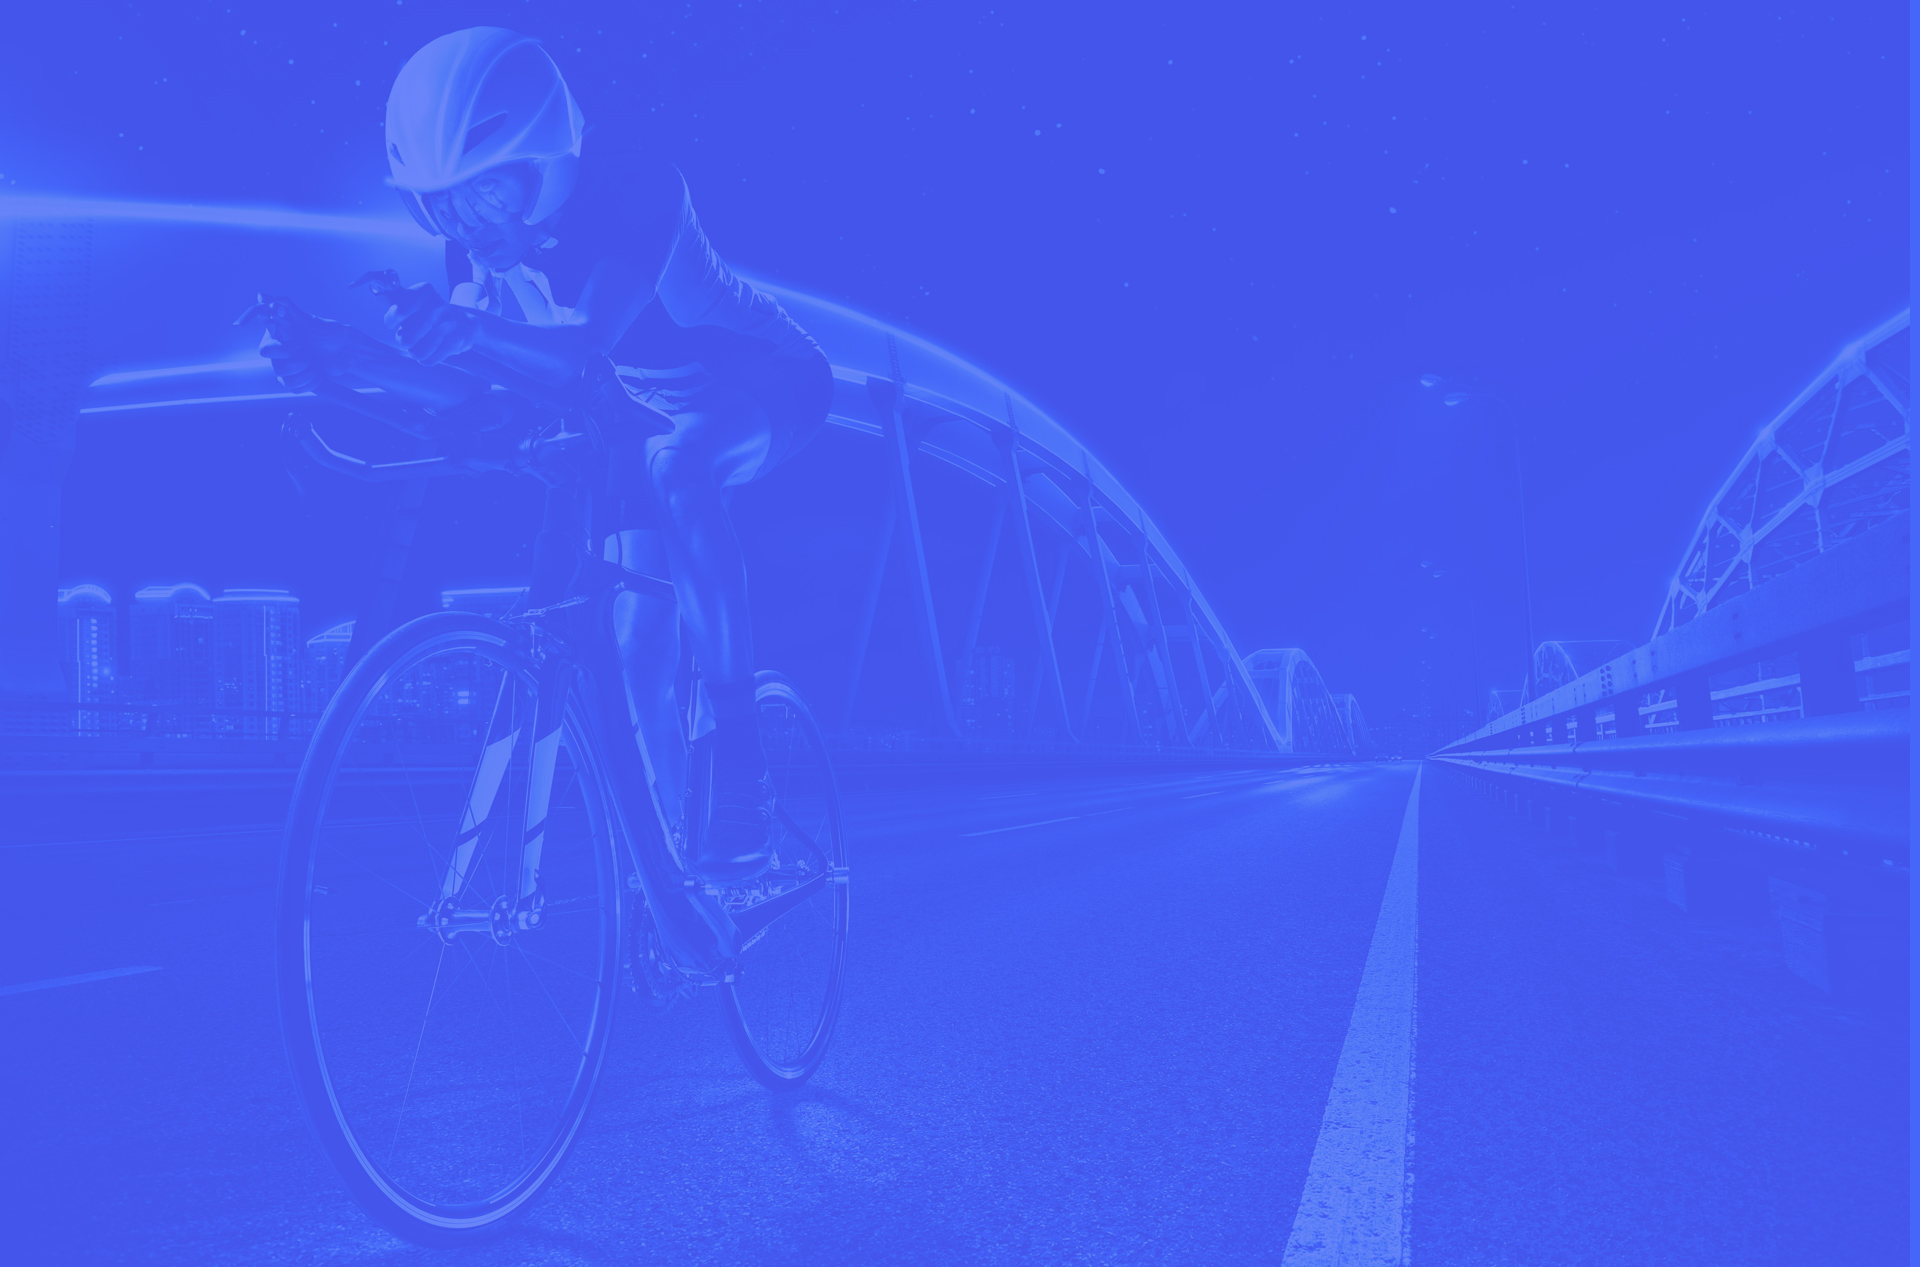
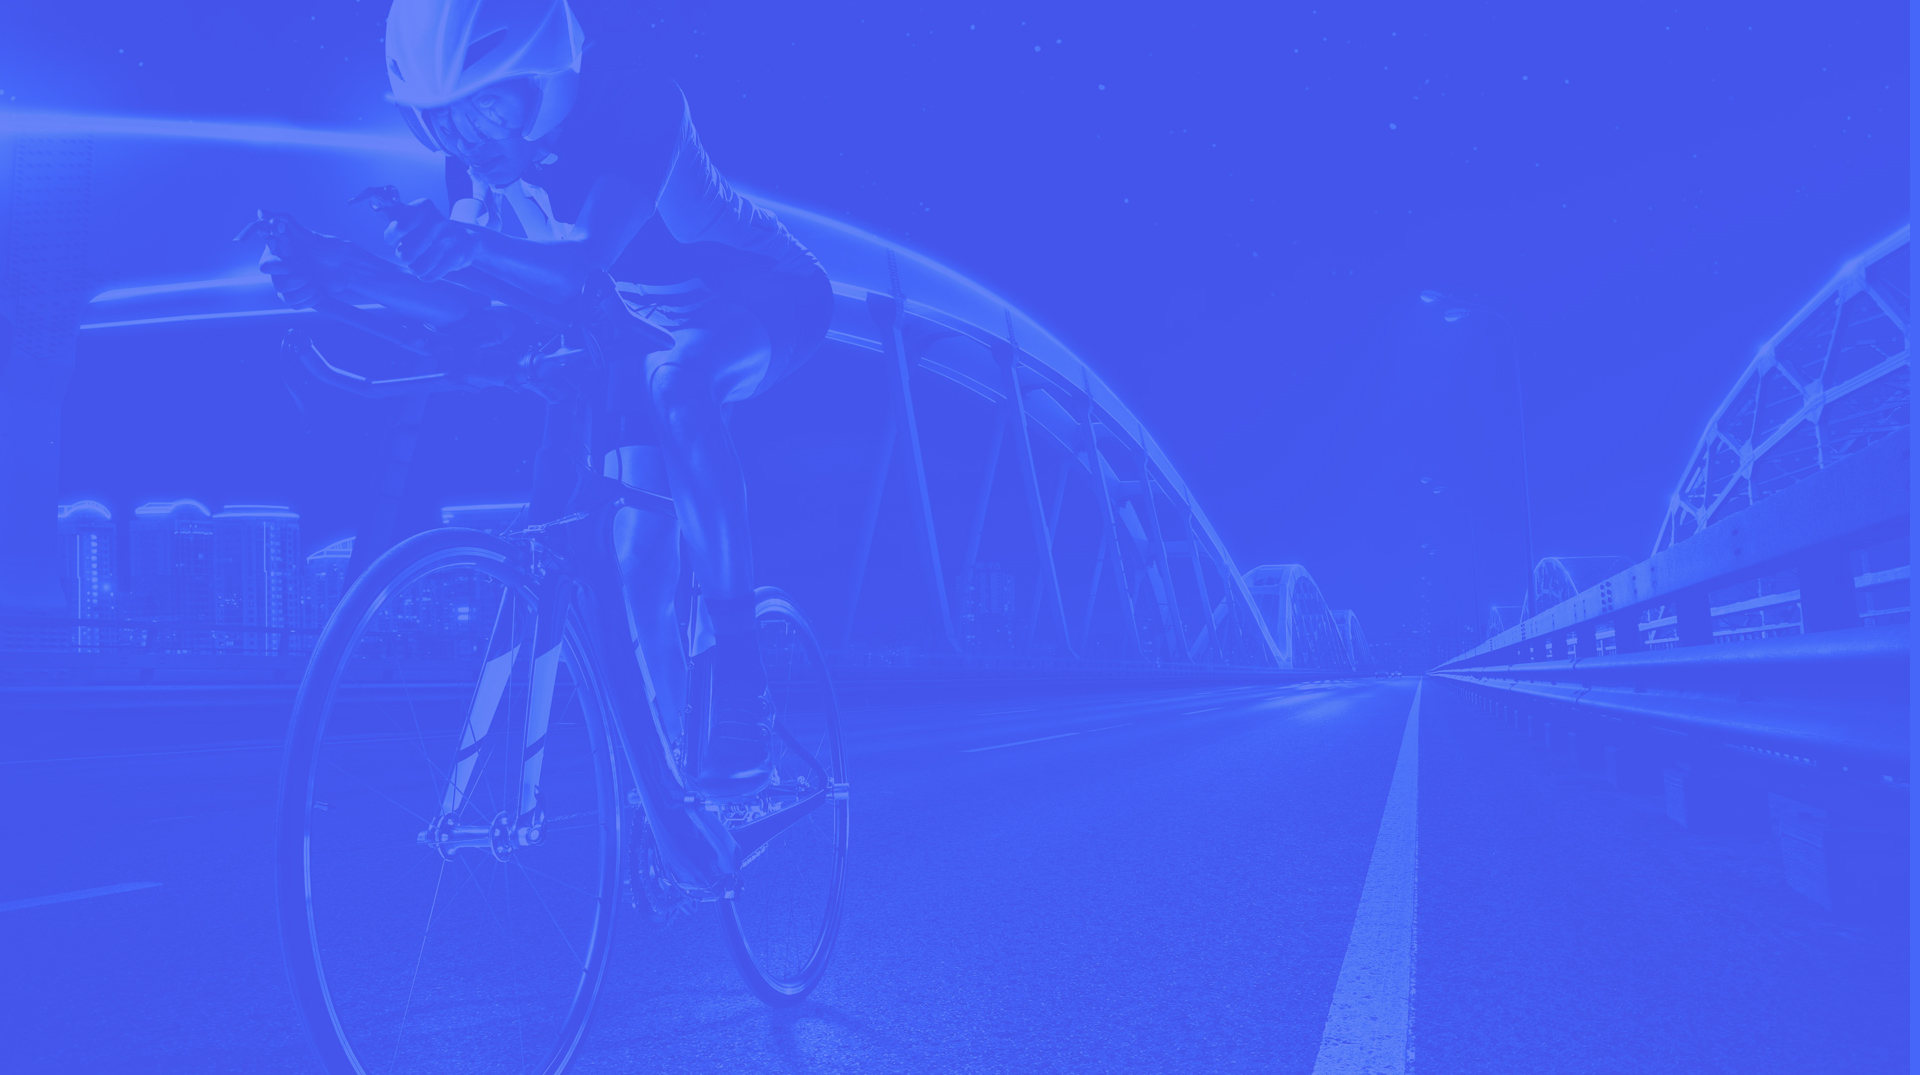
1

diff --git a/sswitch/css/styles-css-grid.css b/sswitch/css/styles-css-grid.css
@@ -148,11 +148,15 @@ h1{
 	color:#808080;
 }
 
+.blue{
+	background-color:#4566F9;
+}
+
 main{
 	margin: 0;
 	display:grid;
 	grid-template-columns: 2vw repeat(12,1fr) 2vw;
-	grid-template-rows: 40vh 20vh 70vh min-content 50vh min-content;
+	grid-template-rows: 40vh 20vh 70vh min-content 50vh min-content 30vh 20vh 70vh;
 }
 
 header {
@@ -255,9 +259,7 @@ h2{
 	z-index: 2;
 	grid-area: 1 / 5 / 4 / 12;
 	margin-top: auto;
-margin-right: auto;
-margin-bottom: 0;
-margin-left:auto;
+
 	
 }
 
@@ -291,9 +293,11 @@ margin-left:auto;
 }
 
 #who_we_are_figure{
-	grid-area: 4 / 4 / 6 / 9;
+	grid-area: 4 / 4 / 6 / 8;
 	object-fit:contain;
-	width:56vw;
+	width:48vw;
+	z-index:2;
+	margin-top:auto;
 }
 
 #who_we_are_bg{
@@ -304,66 +308,57 @@ margin-left:auto;
 	height:50vh;
 }
 
-/*
-#who_we_are{
-	position:relative;
-	height:870px;
-}
-
 #who_we_are_txt_wrapper{
-	position:absolute;
-	left:60vw;
-	bottom:0;
+	grid-area: 4 / 10 / 6 / 13;
+	z-index:0;
 }
 
-#who_we_are_txt_wrapper h1{
-	padding-top:2vw;
-	padding-bottom:2vh;
-	
-	
+
+
+#who_we_are_txt_wrapper p{
+	padding:24px;
 }
 
-#who_we_are .txt_on_blue{
-	background:#4566F9;
-	padding-left:24px;
-	padding-right:24px;
-	padding-top:4px;
-	padding-bottom:4px;
-	width:40vw;
-	background:#4566F9;
-	margin-top:-102px;
-}	
-
-#who_we_are .bg{
+#what_we_do_bg{
+	background:url("media/what_we_do_bg.jpg");
+	background-repeat: no-repeat;
+	background-position: center top;
+	background-size:cover;
+	grid-area: 7 / 1 / 9 / 15;
 	z-index:-1;
-	height:408px;
-	width:100vw;
+	width:100%;
+	height:55vh;
+}
+
+#what_we_do_txt_wrapper{
+	grid-area: 8 / 2 / 9 / 9;
+}
+
+#what_we_do_txt_wrapper h1{
+	margin-top:160px;
+}
+
+#what_we_do_txt_wrapper p{
+	margin-top:-64px;
+}
+
+#what_we_do_blue_bg{
+	grid-area: 8 / 1 / 10 / 15;
+	z-index:-3;
+}
+
+#what_we_do_photo{
+	grid-area:9 / 1 / 10 / 9;
+	z-index:-2;
 	object-fit:cover;
-	position: absolute;
-	bottom:7vh;
+	height:40vh;
+	width:100%;
+	margin-top:auto;
 }
 
-#images_wrapper{
-	position: absolute;
-	bottom:20vh;
-	left:2vw;
-}
 
-#who_we_are .device{
-	z-index:2;
-	margin-left:2vw;
-	object-fit:contain;
-	width:16vw;
-	bottom:0;
-}
-	
-#who_we_are .figure{
-	z-index: 1;
-	object-fit:contain;
-	position: absolute;
-	bottom:7vh;
-	left:18vw;
-}	
+/*
+
 
 
 

diff --git a/sswitch/sswitch-home-css-grid.html b/sswitch/sswitch-home-css-grid.html
@@ -62,11 +62,30 @@
 		<img id="who_we_are_bg" srcset="media/who_we_are_bg.jpg,
 						 media/who_we_are_bg@2x.jpg 2x">
 
-		<!--<div id="who_we_are_txt_wrapper">
+		<div id="who_we_are_txt_wrapper">
 			<h1>who<br/> we<br/> are</h1>
-			<p class="accent txt_on_blue">
+			<p class="accent blue">
 				We are a consultation, technology and research company that delivers the highest quality services to athletes, teams and coaches all over the world. </p>
-		</div>-->
+		</div>
+
+
+		<div id="what_we_do_bg">
+		</div>
+
+		<div id="what_we_do_txt_wrapper">
+			<h1>what we do</h1>
+			<div class="accent txt_on_blue">
+				<p>We provide education, training, consultation and technological solutions 
+				for the integration of a psychobiological model in athletic performance environments.
+				</p>
+			</div>
+		</div>
+
+		<div class="blue" id="what_we_do_blue_bg">
+		</div>
+
+		<img id="what_we_do_photo" srcset="media/what_we_do_photo.jpg,
+										   media/what_we_do_photo@2x.jpg 2x">
 
 		
 
